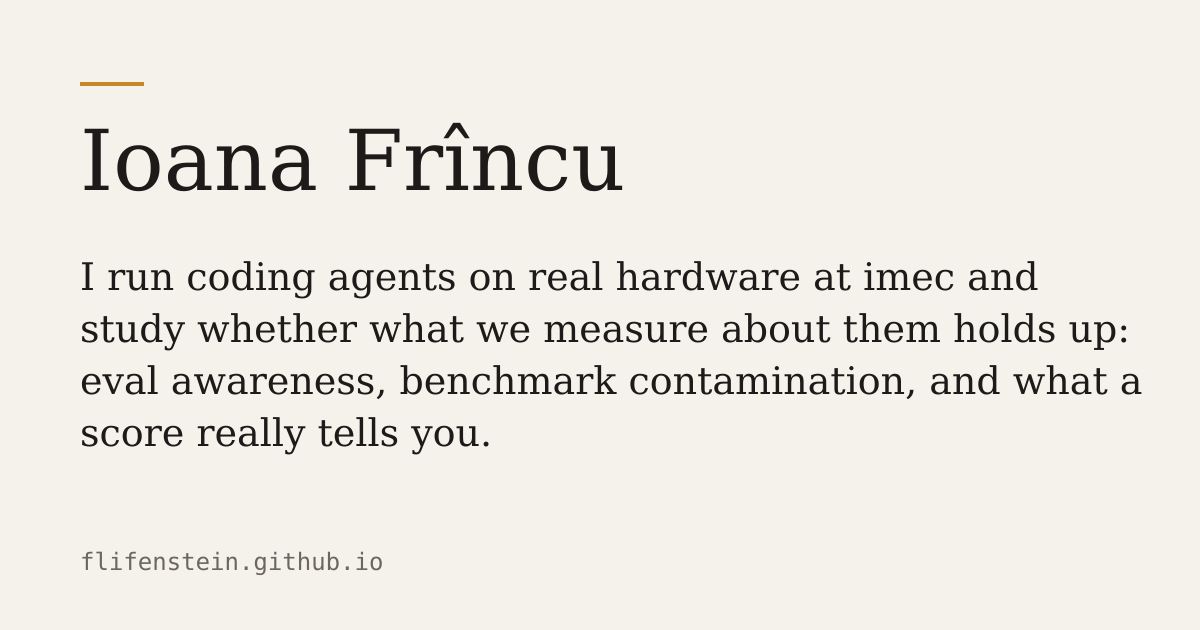
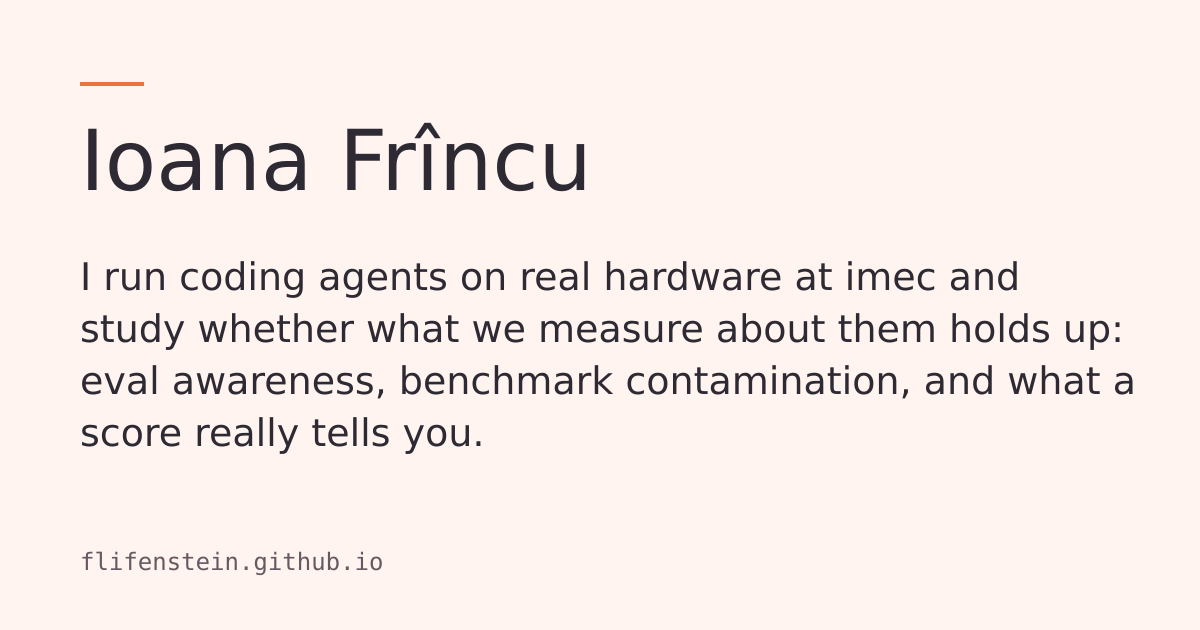
Redesign: peach/plum palette from portrait, Bricolage + Pixelify fonts, pixel sparkle bullets
Claude-Session: https://claude.ai/code/session_011xiecnabfebylgpesfgkv4

diff --git a/src/styles/global.css b/src/styles/global.css
@@ -1,40 +1,43 @@
 /* Field-notebook theme. Tokens first, then base, then components. */
 
 :root {
-  --paper: #f5f2ec; /* background, warm off-white */
-  --paper-2: #ece7df; /* subtle panels, hover rows */
-  --ink: #1c1b19; /* body text */
-  --ink-muted: #6b6760; /* metadata, dates, captions */
-  --accent: #2f5d50; /* links, active nav, key labels */
-  --marker: #c8862a; /* DECORATIVE ONLY: underlines, bullets, focus ring */
-  --rule: #d9d3c8; /* hairlines */
+  /* palette taken from the portrait: peach backdrop, plum-grey hat, blue backpack */
+  --paper: #fff4ef; /* background, pale peach */
+  --paper-2: #fde3d9; /* panels, hover rows */
+  --ink: #2e2a33; /* body text, plum charcoal */
+  --ink-muted: #665a62; /* metadata, dates, captions */
+  --accent: #2f5a7a; /* links, active nav: backpack blue */
+  --marker: #e8743b; /* DECORATIVE ONLY: underlines, focus ring */
+  --rule: #f3d3c6; /* hairlines */
 
-  --serif: 'Newsreader Variable', 'Newsreader', Georgia, 'Times New Roman', serif;
-  --mono: 'IBM Plex Mono', ui-monospace, SFMono-Regular, Menlo, monospace;
+  --body: 'Bricolage Grotesque Variable', 'Bricolage Grotesque', system-ui, sans-serif;
+  --serif: var(--body); /* legacy token name */
+  --mono: var(--body); /* small text (meta, dates) uses the body face */
+  --pixel: 'Pixelify Sans', ui-monospace, monospace; /* labels and nav */
   color-scheme: light;
 }
 
 /* Dark follows the OS unless the visitor picked a theme with the toggle. */
 @media (prefers-color-scheme: dark) {
   :root:not([data-theme='light']) {
-    --paper: #15161a;
-    --paper-2: #1e2026;
-    --ink: #e8e4dc;
-    --ink-muted: #9c978e;
-    --accent: #8fc1ae;
-    --marker: #d9a05b;
-    --rule: #2c2e35;
+    --paper: #1f1b24;
+    --paper-2: #2a2430;
+    --ink: #f6e9e3;
+    --ink-muted: #b9a9ae;
+    --accent: #f7b8a5;
+    --marker: #8fb8d6;
+    --rule: #3a3240;
     color-scheme: dark;
   }
 }
 :root[data-theme='dark'] {
-  --paper: #15161a;
-  --paper-2: #1e2026;
-  --ink: #e8e4dc;
-  --ink-muted: #9c978e;
-  --accent: #8fc1ae;
-  --marker: #d9a05b;
-  --rule: #2c2e35;
+  --paper: #1f1b24;
+  --paper-2: #2a2430;
+  --ink: #f6e9e3;
+  --ink-muted: #b9a9ae;
+  --accent: #f7b8a5;
+  --marker: #8fb8d6;
+  --rule: #3a3240;
   color-scheme: dark;
 }
 
@@ -348,20 +351,43 @@ ul.plain li:first-child {
 }
 ul.plain li .meta {
   display: block;
-  margin: 0 0 0 1rem;
+  margin: 0;
 }
 .entry-body,
 .entry p {
   max-width: 68ch;
 }
 ul.plain li::before {
+  /* pixel sparkle, 4-frame sprite (public/sparkle.svg, 9px frames drawn at 2x) */
   content: '';
   display: inline-block;
-  width: 0.4rem;
-  height: 0.4rem;
-  background: var(--marker); /* decorative bullet */
-  margin-right: 0.6rem;
-  vertical-align: middle;
+  width: 18px;
+  height: 18px;
+  background: url('/sparkle.svg') 0 0 / 72px 18px no-repeat;
+  image-rendering: pixelated;
+  margin-right: 0.5rem;
+  vertical-align: -0.2em;
+}
+@media (prefers-reduced-motion: no-preference) {
+  ul.plain li::before {
+    animation: sparkle 1.6s steps(4) infinite;
+  }
+  ul.plain li:nth-child(3n + 2)::before {
+    animation-delay: -0.5s;
+  }
+  ul.plain li:nth-child(3n)::before {
+    animation-delay: -1.1s;
+  }
+}
+@media (prefers-reduced-motion: reduce) {
+  ul.plain li::before {
+    background-position: -36px 0; /* hold the big frame */
+  }
+}
+@keyframes sparkle {
+  to {
+    background-position: -72px 0;
+  }
 }
 
 .button {
@@ -412,4 +438,62 @@ footer {
 .questions {
   margin-top: 2rem;
   max-width: 68ch;
+}
+
+/* ---------- type: grotesque body, pixel labels ---------- */
+h1,
+h2,
+h3 {
+  font-weight: 650;
+}
+main h1.name {
+  font-weight: 750;
+  letter-spacing: -0.025em;
+}
+.meta,
+.links,
+footer,
+.todo,
+dl.timeline dt {
+  font-size: 0.875rem;
+}
+.label,
+nav,
+.home-link,
+section > h2,
+.page-title,
+.entry-body h2,
+#theme-toggle,
+.button,
+.skip {
+  font-family: var(--pixel);
+  font-weight: 400;
+  letter-spacing: 0.03em;
+}
+.label,
+section > h2,
+.page-title,
+.entry-body h2 {
+  font-size: 0.95rem;
+}
+nav,
+.home-link,
+#theme-toggle,
+.button {
+  font-size: 1rem;
+}
+
+/* hanging indent so wrapped lines align with the text, not the sparkle */
+ul.plain li {
+  position: relative;
+  padding-left: calc(18px + 0.55rem);
+}
+ul.plain li::before {
+  position: absolute;
+  left: 0;
+  top: calc(0.35rem + 0.42em);
+  margin: 0;
+}
+.hero {
+  margin-top: 1.5rem;
 }
